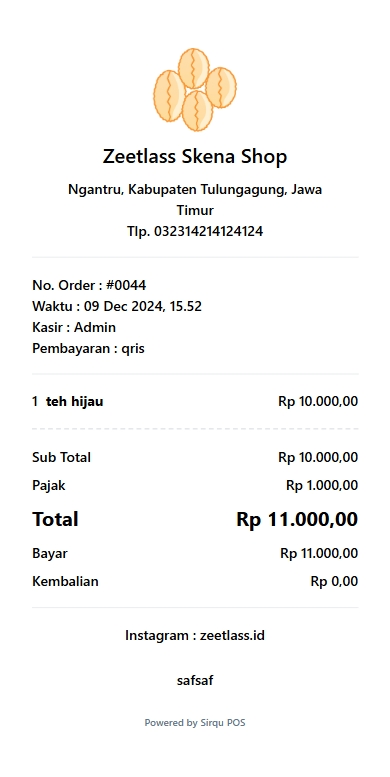
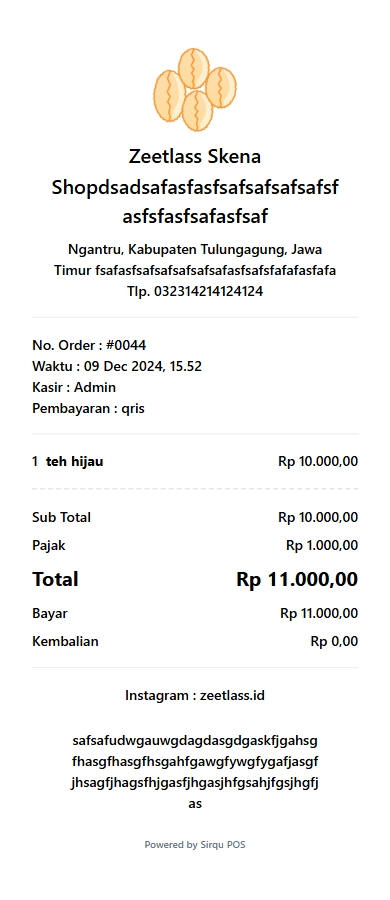
fix:memperbaiki tampilan struk pada API setting-struk dan trnasaksi

diff --git a/backend/controllers/viewStrukController.js b/backend/controllers/viewStrukController.js
@@ -250,9 +250,9 @@ exports.getViewStrukMobile = async (req, res) => {
                         `<img src="${logo}" alt="Logo" class="w-[84px] h-[84px]" />` 
                         :''
                         : ''}
-                    ${showNamaToko ? `<h1 class="text-[20px] text-center font-semibold py-[8px]">${textNamaToko?.text && textNamaToko.text !== 'null' ? textNamaToko.text : ''}</h1>` : ''}
-                    ${showAlamat ? `<p class="text-[14px] text-center font-medium">${textAlamat?.text && textAlamat.text !== 'null'? textAlamat.text : ''}</p>` : ''}
-                    ${showKontak ? `<p class="text-[14px] text-center font-medium">${textKontak?.text && textKontak.text !== 'null'? textKontak.text : ''}</p>` : ''}
+                    ${showNamaToko ? `<h1 class="text-[20px] text-center font-semibold py-[8px] w-[290px] break-words">${textNamaToko?.text && textNamaToko.text !== 'null' ? textNamaToko.text : ''}</h1>` : ''}
+                    ${showAlamat ? `<p class="text-[14px] text-center font-medium w-[290px] break-words">${textAlamat?.text && textAlamat.text !== 'null'? textAlamat.text : ''}</p>` : ''}
+                    ${showKontak ? `<p class="text-[14px] text-center font-medium w-[290px] break-words">${textKontak?.text && textKontak.text !== 'null'? textKontak.text : ''}</p>` : ''}
                      <!-- <p class="text-[14px] font-medium">www.kopikita.com</p> -->
                 </div>
 
@@ -324,7 +324,7 @@ exports.getViewStrukMobile = async (req, res) => {
                        ${sosialMediaContent}
                     </div>
                   ` : ''}
-                ${showCatatan ? `<p class="text-[14px] font-medium text-center w-[250px]">${textCatatan?.text && textCatatan.text !== 'null'? textCatatan.text : ''}</p>` : ''}
+                ${showCatatan ? `<p class="text-[14px] font-medium text-center w-[250px]  break-words">${textCatatan?.text && textCatatan.text !== 'null'? textCatatan.text : ''}</p>` : ''}
                     <p class="text-[10px] font-medium text-slate-500 mt-[24px]">Powered by Sirqu POS</p>
                 </div>
 
@@ -568,9 +568,9 @@ exports.getTransaksiStruk = async (req, res) => {
                         `<img src="${logo}" alt="Logo" class="w-[84px] h-[84px]" />` 
                         :''
                         : ''}
-                        ${showNamaToko ? `<h1 class="text-[20px] text-center font-semibold py-[8px]">${textNamaToko?.text && textNamaToko.text !== 'null' ? textNamaToko.text : ''}</h1>` : ''}
-                        ${showAlamat ? `<p class="text-[14px] text-center font-medium">${textAlamat?.text && textAlamat.text !== 'null'? textAlamat.text : ''}</p>` : ''}
-                        ${showKontak ? `<p class="text-[14px] text-center font-medium">${textKontak?.text && textKontak.text !== 'null'? textKontak.text : ''}</p>` : ''}
+                    ${showNamaToko ? `<h1 class="text-[20px] text-center font-semibold py-[8px] w-[290px] break-words">${textNamaToko?.text && textNamaToko.text !== 'null' ? textNamaToko.text : ''}</h1>` : ''}
+                    ${showAlamat ? `<p class="text-[14px] text-center font-medium w-[290px] break-words">${textAlamat?.text && textAlamat.text !== 'null'? textAlamat.text : ''}</p>` : ''}
+                    ${showKontak ? `<p class="text-[14px] text-center font-medium w-[290px] break-words">${textKontak?.text && textKontak.text !== 'null'? textKontak.text : ''}</p>` : ''}
                      <!-- <p class="text-[14px] font-medium">www.kopikita.com</p> -->
                 </div>
 
@@ -616,7 +616,7 @@ exports.getTransaksiStruk = async (req, res) => {
                        ${sosialMediaContent}
                     </div>
                   ` : ''}
-                ${showCatatan ? `<p class="text-[14px] font-medium text-center w-[250px]">${textCatatan?.text && textCatatan.text !== 'null'? textCatatan.text : ''}</p>` : ''}
+                  ${showCatatan ? `<p class="text-[14px] font-medium text-center w-[250px]  break-words">${textCatatan?.text && textCatatan.text !== 'null'? textCatatan.text : ''}</p>` : ''}
                     <p class="text-[10px] font-medium text-slate-500 mt-[24px]">Powered by Sirqu POS</p>
                 </div>
 
@@ -890,9 +890,9 @@ exports.getTransaksiStrukMobile = async (req, res) => {
                         `<img src="${logo}" alt="Logo" class="w-[84px] h-[84px]" />` 
                         :''
                         : ''}
-                        ${showNamaToko ? `<h1 class="text-[20px] text-center font-semibold py-[8px]">${textNamaToko?.text && textNamaToko.text !== 'null' ? textNamaToko.text : ''}</h1>` : ''}
-                        ${showAlamat ? `<p class="text-[14px] text-center font-medium">${textAlamat?.text && textAlamat.text !== 'null'? textAlamat.text : ''}</p>` : ''}
-                        ${showKontak ? `<p class="text-[14px] text-center font-medium">${textKontak?.text && textKontak.text !== 'null'? textKontak.text : ''}</p>` : ''}
+                    ${showNamaToko ? `<h1 class="text-[20px] text-center font-semibold py-[8px] w-[290px] break-words">${textNamaToko?.text && textNamaToko.text !== 'null' ? textNamaToko.text : ''}</h1>` : ''}
+                    ${showAlamat ? `<p class="text-[14px] text-center font-medium w-[290px] break-words">${textAlamat?.text && textAlamat.text !== 'null'? textAlamat.text : ''}</p>` : ''}
+                    ${showKontak ? `<p class="text-[14px] text-center font-medium w-[290px] break-words">${textKontak?.text && textKontak.text !== 'null'? textKontak.text : ''}</p>` : ''}
                      <!-- <p class="text-[14px] font-medium">www.kopikita.com</p> -->
                 </div>
 
@@ -938,7 +938,7 @@ exports.getTransaksiStrukMobile = async (req, res) => {
                        ${sosialMediaContent}
                     </div>
                   ` : ''}
-                ${showCatatan ? `<p class="text-[14px] font-medium text-center w-[250px]">${textCatatan?.text && textCatatan.text !== 'null'? textCatatan.text : ''}</p>` : ''}
+                  ${showCatatan ? `<p class="text-[14px] font-medium text-center w-[250px]  break-words">${textCatatan?.text && textCatatan.text !== 'null'? textCatatan.text : ''}</p>` : ''}
                     <p class="text-[10px] font-medium text-slate-500 mt-[24px]">Powered by Sirqu POS</p>
                 </div>
 

diff --git a/frontend/src/pages/AdminPanel/Pengaturan/Pajak&Struk/Priview.jsx b/frontend/src/pages/AdminPanel/Pengaturan/Pajak&Struk/Priview.jsx
@@ -45,13 +45,13 @@ const Priview = ({isAnyChecked}) => {
                     <DialogHeader>
                         <DialogTitle></DialogTitle>
                     </DialogHeader>
-                    <div style={{ width: '100%' }}>
+                    <div style={{ width: '390px' }}>
                         <iframe
                             ref={iframeRef}
                             srcDoc={htmlContent}
                             title="HTML Content Preview"
                             style={{
-                                width: '100%',
+                                width: '390px',
                                 border: 'none',
                                 overflow: 'hidden',
                             }}
